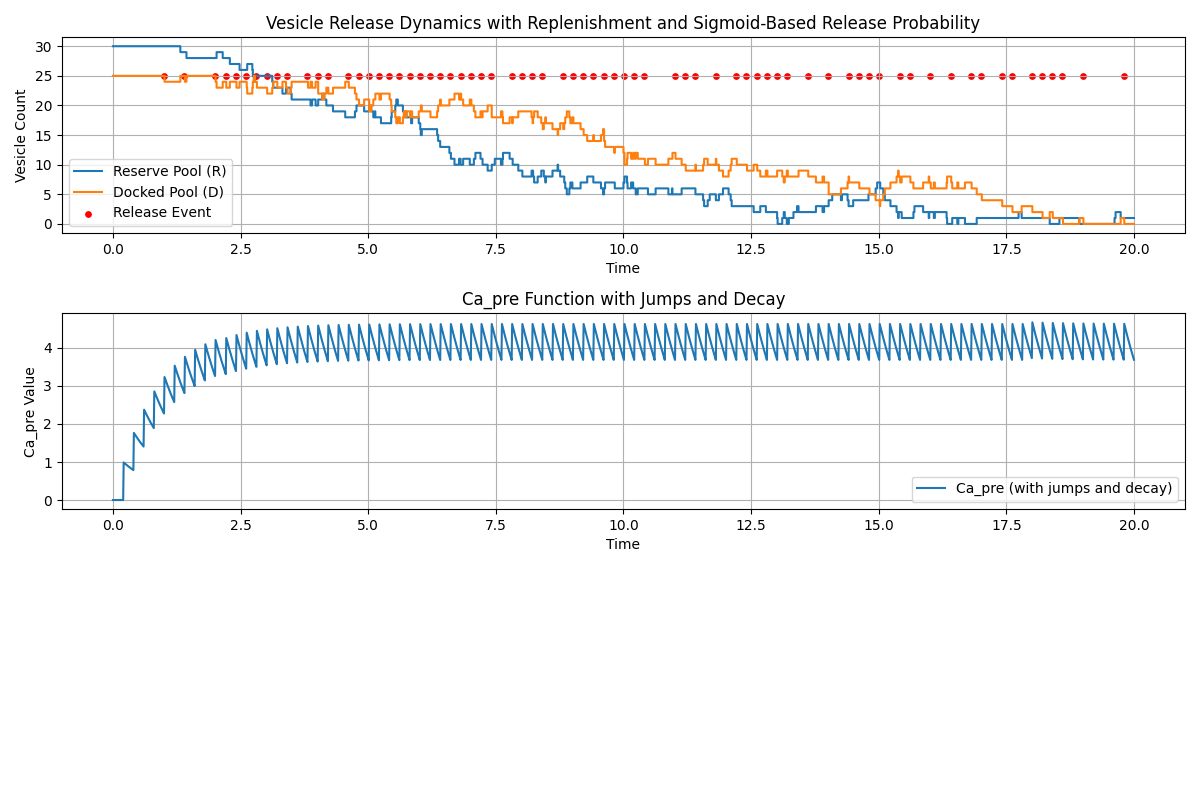
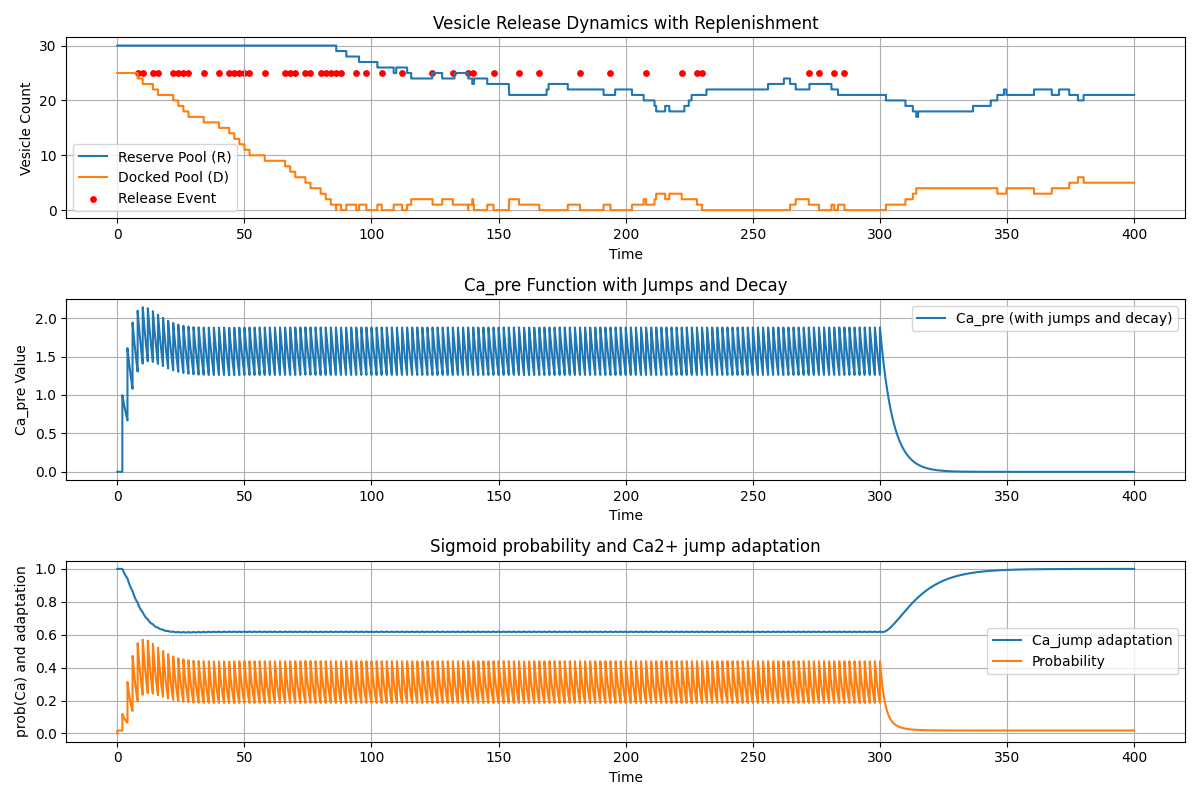
adds a variable to adapt the Ca jump and plots release probability

diff --git a/model_presynaptic.py b/model_presynaptic.py
@@ -145,7 +145,7 @@ plt.step(times, docked_values, where='post', label="Docked Pool (D)")
 plt.scatter(release_times, [D0] * len(release_times), color='red', label="Release Event", s=15)
 plt.xlabel('Time')
 plt.ylabel('Vesicle Count')
-plt.title('Vesicle Release Dynamics with Replenishment and Sigmoid-Based Release Probability')
+plt.title('Vesicle Release Dynamics with Replenishment')
 plt.grid(True)
 plt.legend()
 
@@ -172,7 +172,7 @@ plt.tight_layout()
 plt.subplot(3, 1, 3)
 plt.plot(times, Sigmoid_proba, label="Probability")
 plt.xlabel('Time')
-plt.ylabel('prob(Ca)')
+plt.ylabel('prob(Ca) and adaptation')
 plt.title('Sigmoid probability and Ca2+ jump adaptation')
 plt.grid(True)
 plt.legend()
